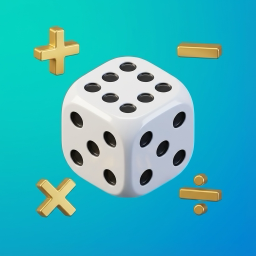
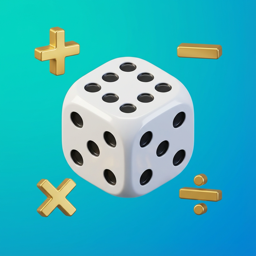
feat: add privacy policy (EN/zh) and link it from all pages

diff --git a/privacy.html b/privacy.html
@@ -1,0 +1,39 @@
+<!DOCTYPE html>
+<html lang="en">
+<head>
+<meta charset="UTF-8">
+<meta name="viewport" content="width=device-width, initial-scale=1.0">
+<title>Privacy Policy - Dice Math 3D</title>
+<link rel="icon" href="app-icon.png">
+<style>
+:root { --bg:#0d1f1c;--text:#fff8e2;--muted:#a3c4b3;--accent:#ffc761;--card:#14302b;--border:#2e4a42;--ok:#9be6ba; }
+* { box-sizing: border-box; margin: 0; padding: 0; }
+body { font-family: -apple-system, BlinkMacSystemFont, "SF Pro Text", "Segoe UI", Roboto, "PingFang SC", sans-serif;
+  background: var(--bg); color: var(--text); line-height: 1.7; padding: 28px 16px 64px; }
+.wrap { max-width: 760px; margin: 0 auto; }
+header { display: flex; justify-content: space-between; align-items: center; flex-wrap: wrap; gap: 12px; margin-bottom: 40px; }
+nav a { color: var(--accent); text-decoration: none; margin-left: 18px; font-size: .95rem; }
+nav a:first-child { margin-left: 0; }
+h1 { font-size: clamp(2rem, 6vw, 2.6rem); letter-spacing: -0.02em; line-height: 1.15; margin-bottom: 6px; }
+.date { color: var(--muted); font-size: .92rem; }
+.label { background: var(--card); border: 1px solid var(--border); border-radius: 18px; padding: 20px 22px; margin: 26px 0 8px; }
+.badge { display: flex; align-items: center; gap: 10px; font-weight: 700; font-size: 1.15rem; }
+.dot { width: 12px; height: 12px; border-radius: 50%; background: var(--ok); flex-shrink: 0; }
+h2 { font-size: 1.2rem; margin: 30px 0 8px; letter-spacing: -0.01em; }
+p { color: var(--muted); margin: 8px 0; }
+p strong { color: var(--text); }
+a { color: var(--accent); }
+footer { margin-top: 44px; color: var(--muted); font-size: .85rem; }
+</style>
+</head>
+<body>
+<div class="wrap">
+<header><strong>Dice Math 3D</strong><nav><a href="index.html">Home</a><a href="support.html">Support</a><a href="privacy_zh.html">中文</a></nav></header>
+<h1>Privacy Policy</h1>
+<p class="date">Effective date: November 20, 2026</p>
+<div class="label"><div class="badge"><span class="dot"></span>Data Not Collected</div><p>Dice Math 3D does not collect, store on our servers, share or sell any personal information.</p></div>
+<h2>The short version</h2><p>No accounts or sign-in.</p><p>No ads, no analytics, no tracking, and no third-party SDKs.</p><p>The app works fully offline and does not send anything over the internet.</p><h2>Information stored on your device</h2><p>To make practice work, the app keeps your settings (grade, dice count, operators, language), your score history and your Mistakes Book on your device only.</p><p>We cannot see this information. It is deleted when you delete the app. Like other app data, it may be included in device backups that you make with Apple, which are covered by Apple’s privacy policy.</p><p>You can clear the history at any time in Settings → History.</p><h2>Device features</h2><p><strong>Motion sensor</strong>: used only to notice when you shake the device to roll the dice. Motion readings are processed in real time and never saved.</p><p><strong>Read aloud</strong>: questions are spoken with Apple’s built-in, on-device speech. No audio is recorded and the microphone is never used.</p><p><strong>Haptics</strong>: used for taps and feedback only.</p><h2>Children’s privacy</h2><p>Dice Math 3D is made for children. Because the app collects no personal information, it does not collect personal information from children.</p><p>Settings and the support email link are behind a parental gate, so children cannot leave the app or change settings without an adult.</p><h2>Purchases</h2><p>Dice Math 3D is a paid app with no in-app purchases. Payment is handled entirely by Apple through the App Store; we do not receive your payment details.</p><h2>If you email us</h2><p>If you contact us at <a href="mailto:support@keepsub.com">support@keepsub.com</a>, we receive your email address and whatever you choose to include. Emails sent from the app’s “Contact Support” link are prefilled with the app version, device model and iOS version, which you can edit or remove before sending.</p><p>We use this only to answer you, and we delete it on request.</p><h2>Changes</h2><p>If this policy changes, we will update this page and the effective date above.</p><h2>Contact</h2><p>Questions about privacy: <a href="mailto:support@keepsub.com">support@keepsub.com</a></p>
+<footer>© 2026 Dice Math 3D</footer>
+</div>
+</body>
+</html>

diff --git a/privacy_zh.html b/privacy_zh.html
@@ -1,0 +1,39 @@
+<!DOCTYPE html>
+<html lang="zh-Hans">
+<head>
+<meta charset="UTF-8">
+<meta name="viewport" content="width=device-width, initial-scale=1.0">
+<title>隐私政策 - Dice Math 3D</title>
+<link rel="icon" href="app-icon.png">
+<style>
+:root { --bg:#0d1f1c;--text:#fff8e2;--muted:#a3c4b3;--accent:#ffc761;--card:#14302b;--border:#2e4a42;--ok:#9be6ba; }
+* { box-sizing: border-box; margin: 0; padding: 0; }
+body { font-family: -apple-system, BlinkMacSystemFont, "SF Pro Text", "Segoe UI", Roboto, "PingFang SC", sans-serif;
+  background: var(--bg); color: var(--text); line-height: 1.7; padding: 28px 16px 64px; }
+.wrap { max-width: 760px; margin: 0 auto; }
+header { display: flex; justify-content: space-between; align-items: center; flex-wrap: wrap; gap: 12px; margin-bottom: 40px; }
+nav a { color: var(--accent); text-decoration: none; margin-left: 18px; font-size: .95rem; }
+nav a:first-child { margin-left: 0; }
+h1 { font-size: clamp(2rem, 6vw, 2.6rem); letter-spacing: -0.02em; line-height: 1.15; margin-bottom: 6px; }
+.date { color: var(--muted); font-size: .92rem; }
+.label { background: var(--card); border: 1px solid var(--border); border-radius: 18px; padding: 20px 22px; margin: 26px 0 8px; }
+.badge { display: flex; align-items: center; gap: 10px; font-weight: 700; font-size: 1.15rem; }
+.dot { width: 12px; height: 12px; border-radius: 50%; background: var(--ok); flex-shrink: 0; }
+h2 { font-size: 1.2rem; margin: 30px 0 8px; letter-spacing: -0.01em; }
+p { color: var(--muted); margin: 8px 0; }
+p strong { color: var(--text); }
+a { color: var(--accent); }
+footer { margin-top: 44px; color: var(--muted); font-size: .85rem; }
+</style>
+</head>
+<body>
+<div class="wrap">
+<header><strong>Dice Math 3D</strong><nav><a href="index.html">首页</a><a href="support_zh.html">技术支持</a><a href="privacy.html">English</a></nav></header>
+<h1>隐私政策</h1>
+<p class="date">生效日期：2026 年 11 月 20 日</p>
+<div class="label"><div class="badge"><span class="dot"></span>不收集数据</div><p>Dice Math 3D 不收集、不在我们的服务器上保存、不分享也不出售任何个人信息。</p></div>
+<h2>简要说明</h2><p>无需注册或登录账号。</p><p>没有广告、数据统计、追踪，也没有任何第三方 SDK。</p><p>App 可完全离线使用，不会通过网络发送任何内容。</p><h2>保存在你设备上的信息</h2><p>为了让练习正常进行，App 只在你的设备上保存：设置（年级、骰子数量、运算类型、语言）、成绩历史和错题本。</p><p>我们无法看到这些信息。删除 App 时它们会一并删除。和其他 App 数据一样，它们可能包含在你通过 Apple 进行的设备备份中，备份适用 Apple 的隐私政策。</p><p>你可以随时在「设置 → 历史记录」中清除历史。</p><h2>设备功能</h2><p><strong>运动传感器</strong>：仅用于识别你摇动设备来投骰子。运动数据实时处理，从不保存。</p><p><strong>朗读题目</strong>：使用 Apple 系统内置、在设备上运行的语音朗读。不会录音，也从不使用麦克风。</p><p><strong>触感反馈</strong>：仅用于按键和答题反馈。</p><h2>儿童隐私</h2><p>Dice Math 3D 面向儿童设计。由于 App 不收集任何个人信息，因此也不会收集儿童的个人信息。</p><p>设置页和联系支持的邮件入口都在家长验证之后，孩子无法在没有成人帮助的情况下离开 App 或修改设置。</p><h2>购买</h2><p>Dice Math 3D 为付费下载，没有 App 内购买。付款完全由 Apple 通过 App Store 处理，我们不会收到你的支付信息。</p><h2>如果你给我们发邮件</h2><p>如果你通过 <a href="mailto:support@keepsub.com">support@keepsub.com</a> 联系我们，我们会收到你的邮箱地址和你选择写入的内容。通过 App 内「联系支持」发出的邮件会预填 App 版本、设备型号和系统版本，你可以在发送前修改或删除。</p><p>这些信息只用于回复你，你可以随时要求我们删除。</p><h2>政策变更</h2><p>如本政策有变更，我们会更新本页面及上方的生效日期。</p><h2>联系我们</h2><p>隐私相关问题请联系：<a href="mailto:support@keepsub.com">support@keepsub.com</a></p>
+<footer>© 2026 Dice Math 3D</footer>
+</div>
+</body>
+</html>

diff --git a/support_zh.html b/support_zh.html
@@ -34,7 +34,7 @@ footer { margin-top: 40px; color: var(--muted); font-size: .85rem; }
 </head>
 <body>
 <div class="wrap">
-<header><strong>Dice Math 3D</strong><nav><a href="index.html">首页</a><a href="support.html">English</a></nav></header>
+<header><strong>Dice Math 3D</strong><nav><a href="index.html">首页</a><a href="privacy_zh.html">隐私政策</a><a href="support.html">English</a></nav></header>
 <h1>有问题，发邮件给我们</h1>
 <p class="lead">使用Dice Math 3D时遇到问题，或者有改进建议？请发邮件给我们，每一封都由开发者本人阅读。</p>
 <section class="card">

diff --git a/support.html b/support.html
@@ -34,7 +34,7 @@ footer { margin-top: 40px; color: var(--muted); font-size: .85rem; }
 </head>
 <body>
 <div class="wrap">
-<header><strong>Dice Math 3D</strong><nav><a href="index.html">Home</a><a href="support_zh.html">中文</a></nav></header>
+<header><strong>Dice Math 3D</strong><nav><a href="index.html">Home</a><a href="privacy.html">Privacy</a><a href="support_zh.html">中文</a></nav></header>
 <h1>We’re here to help</h1>
 <p class="lead">Ran into a problem with Dice Math 3D, or have an idea to make it better? Email us — every message is read by the people who build the app.</p>
 <section class="card">

diff --git a/index.html b/index.html
@@ -43,7 +43,7 @@ footer a { color: var(--accent); }
     <a class="btn primary" href="support.html">Support</a>
     <a class="btn ghost" href="support_zh.html">中文支持</a>
   </div>
-  <footer>Questions? Email <a href="mailto:support@keepsub.com">support@keepsub.com</a> · © 2026 Dice Math 3D</footer>
+  <footer>Questions? Email <a href="mailto:support@keepsub.com">support@keepsub.com</a><br><a href="privacy.html">Privacy Policy</a> · <a href="privacy_zh.html">隐私政策</a> · © 2026 Dice Math 3D</footer>
 </div>
 </body>
 </html>
